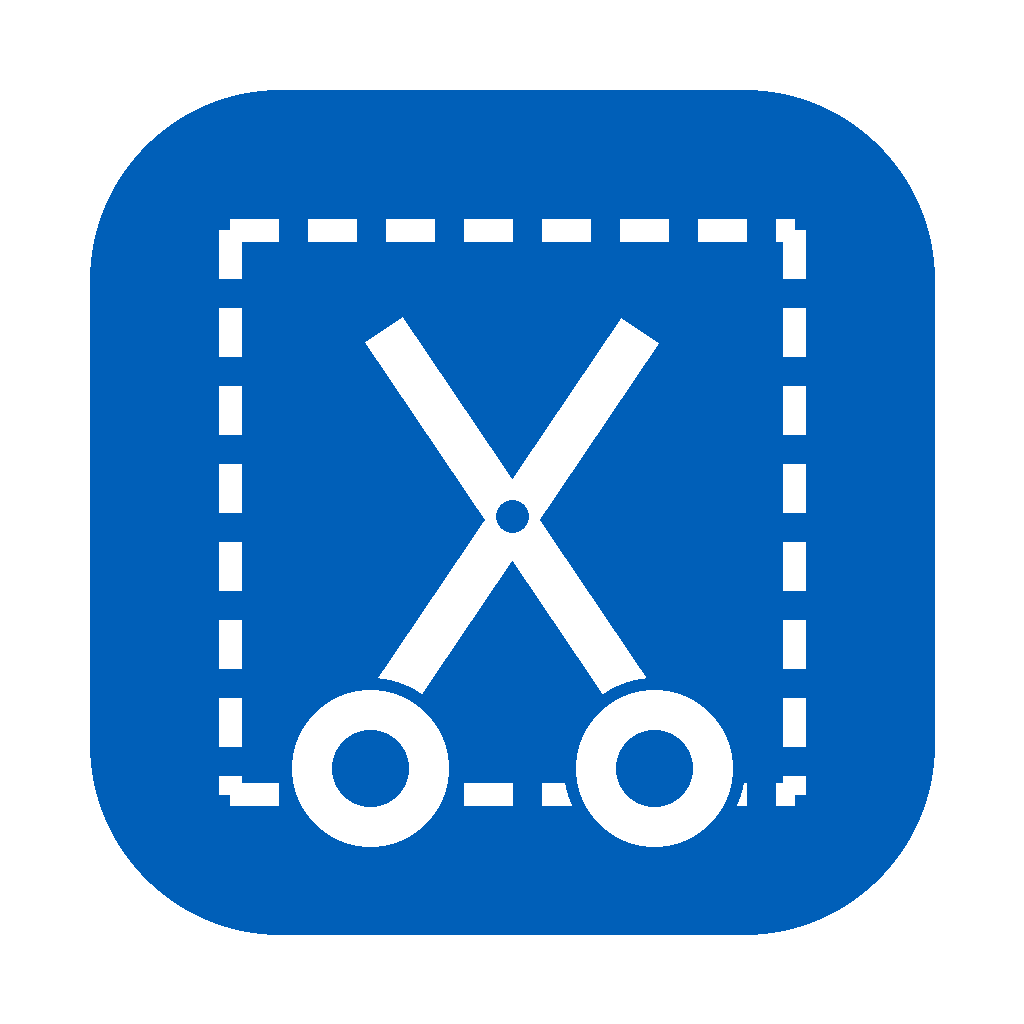
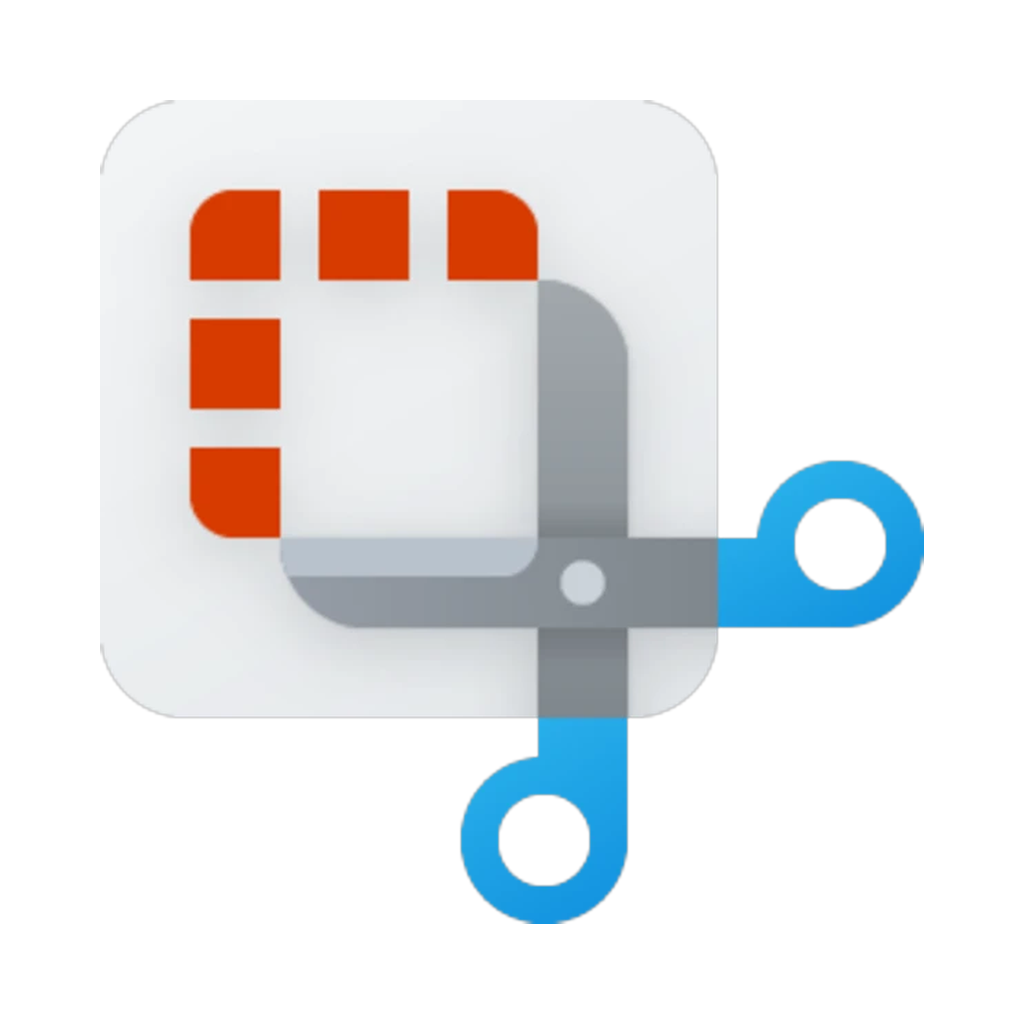
Version 0.0.4: neues App-Symbol
Claude-Session: https://claude.ai/code/session_01VHHZkssMLF8YiN9hmhUQHM

diff --git a/CHANGELOG.md b/CHANGELOG.md
@@ -1,5 +1,9 @@
 # Changelog
 
+## 0.0.4 – 15.11.2026
+
+- Neues App-Symbol im Stil des Windows-11-Snipping-Tools (Dock, Titelzeile, Hinweis unten rechts)
+
 ## 0.0.3 – 15.11.2026
 
 Windows-Darstellung so nah wie möglich am Snipping Tool von Windows 11 (die Mac-Darstellung bleibt wählbar):
